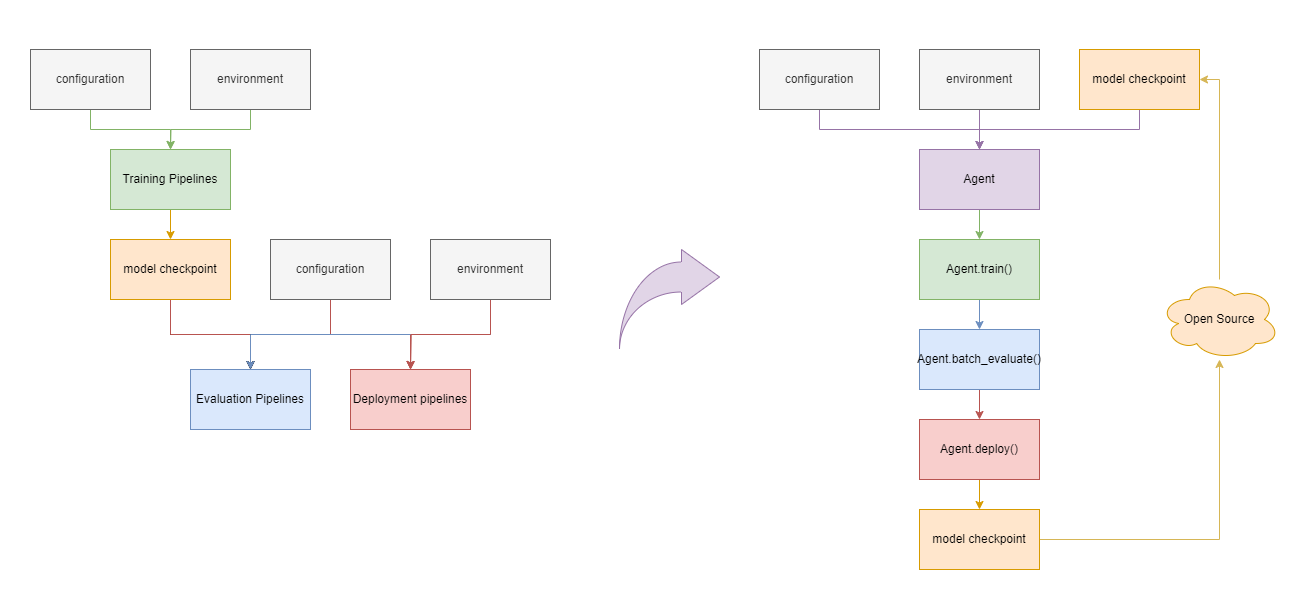
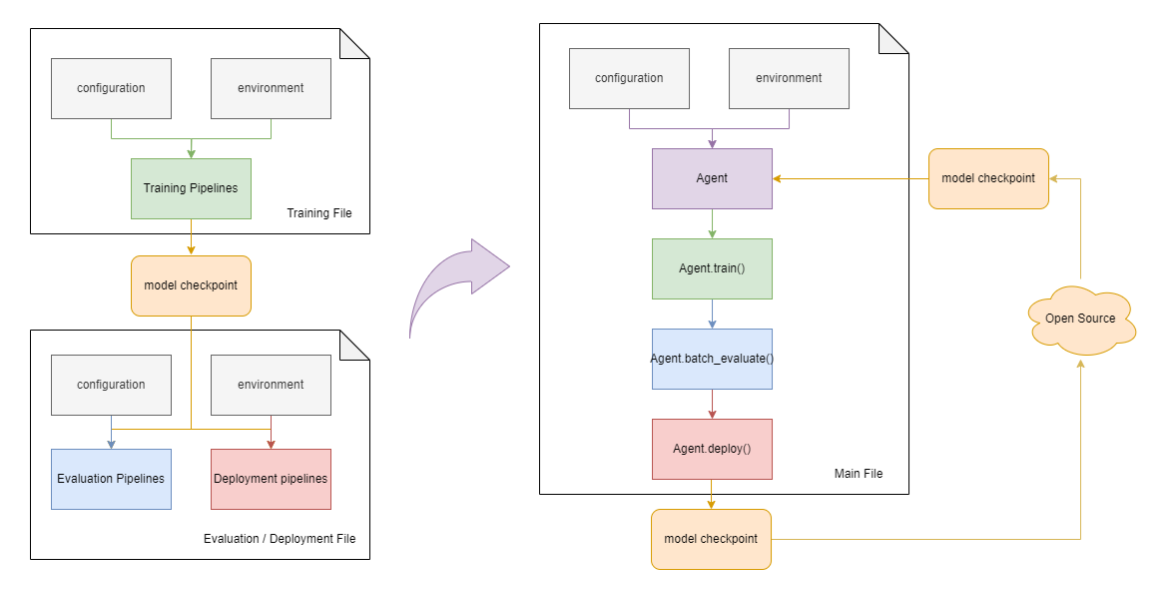
polish code

diff --git a/source/03_system/agent.rst b/source/03_system/agent.rst
@@ -38,9 +38,29 @@ The RL Agent class offers streamlined configurations for benchmark environments 
         agent.deploy(enable_save_replay=True)
 
 
+The RL Agent class also supports users to train RL agents using custom configurations. The configuration format can refer to the default configuration. For example, to use the DQN algorithm to train the LunarLander environment, you can refer to the file `gym_lunarlander_v2.py <https://github.com/opendilab/DI-engine/blob/main/ding/config/example/DQN/ gym_lunarlander_v2.py>`.
+
+
+.. code-block:: python
+
+    from ding.bonus import DQNAgent
+    from ding.config.example.DQN.gym_lunarlander_v2 import cfg
+
+    if __name__ == "__main__":
+        # Initialize the agent
+        agent = DQNAgent(exp_name="LunarLander-v2-DQN", cfg=cfg)
+        # Train the agent
+        return_ = agent.train(step=int(2000000))
+        # Deploy the agent and render a video replay
+        agent.deploy(enable_save_replay=True)
+
+
+The RL Agent class integrates the training and evaluation pipelines, allowing users to call training and evaluation methods in the same main file without having to use multiple files to perform training and evaluation separately. In this way, users can evaluate the performance of the agent at any time during the training process, or train the agent at any time during the evaluation process.
+
+
 .. image::
     images/agent_usage.png
-    :width: 1310
+    :width: 1160
     :align: center
 
 In addition, the trained model checkpoints are accessible on the Hugging Face Hub. To download these models, we kindly request you to follow the explicit instructions provided on the respective model card webpages. 
